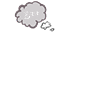
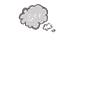
Add remaining cat faces; move box in front of cats optically

Changed region(s): [[0.15, 0.0, 0.57, 0.33]]

diff --git a/css/styles.css b/css/styles.css
@@ -115,7 +115,6 @@ p {
 }
 
 #box {
-     background-image: url("../images/box.png");
      /* background-color: gray; */
      width: 100px;
      height: 100px;
@@ -128,7 +127,17 @@ p {
      /* Position all cats in the box absolutely, relative to the box parent */
      position: absolute;
      /* box-shadow: 1px 1px 1px rgba(0,0,0,.3); */
- }
+}
+
+#box:after {
+     background-image: url("../images/box.png");
+     content: '';
+     height: 100px;
+     width: 100px;
+     display: block;
+     position: absolute;
+     right: 16px;
+}
 
 #pass {
      width: 80px;
@@ -177,13 +186,6 @@ p {
      margin: -10px;
 }
 
-/* Image Container for Cats */
-.imageContainer {
-     position: relative;
-     width: 100px;
-     height: 100px;
-}
-
 /* Moods */
 
 /* The before pseudoselector will allow a second image to show over the background image. It is filled out with blank content so that it renders, and given a few properties for the face image */
@@ -212,7 +214,7 @@ p {
  }
 
 .sleeping:before {
-     background-image: url("../images/sleeping-face.png");
+     background-image: url(../images/sleeping-face.png);
      content: '';
      display: block;
      width: 100%;
@@ -280,12 +282,6 @@ p {
      display: none;
 }
 
-/* GENERAL STUFF! */
-
-/* Broken? */
-.fill {
-     object-fit: fill;
-}
 
 /* ANIMATIONS! */
 
